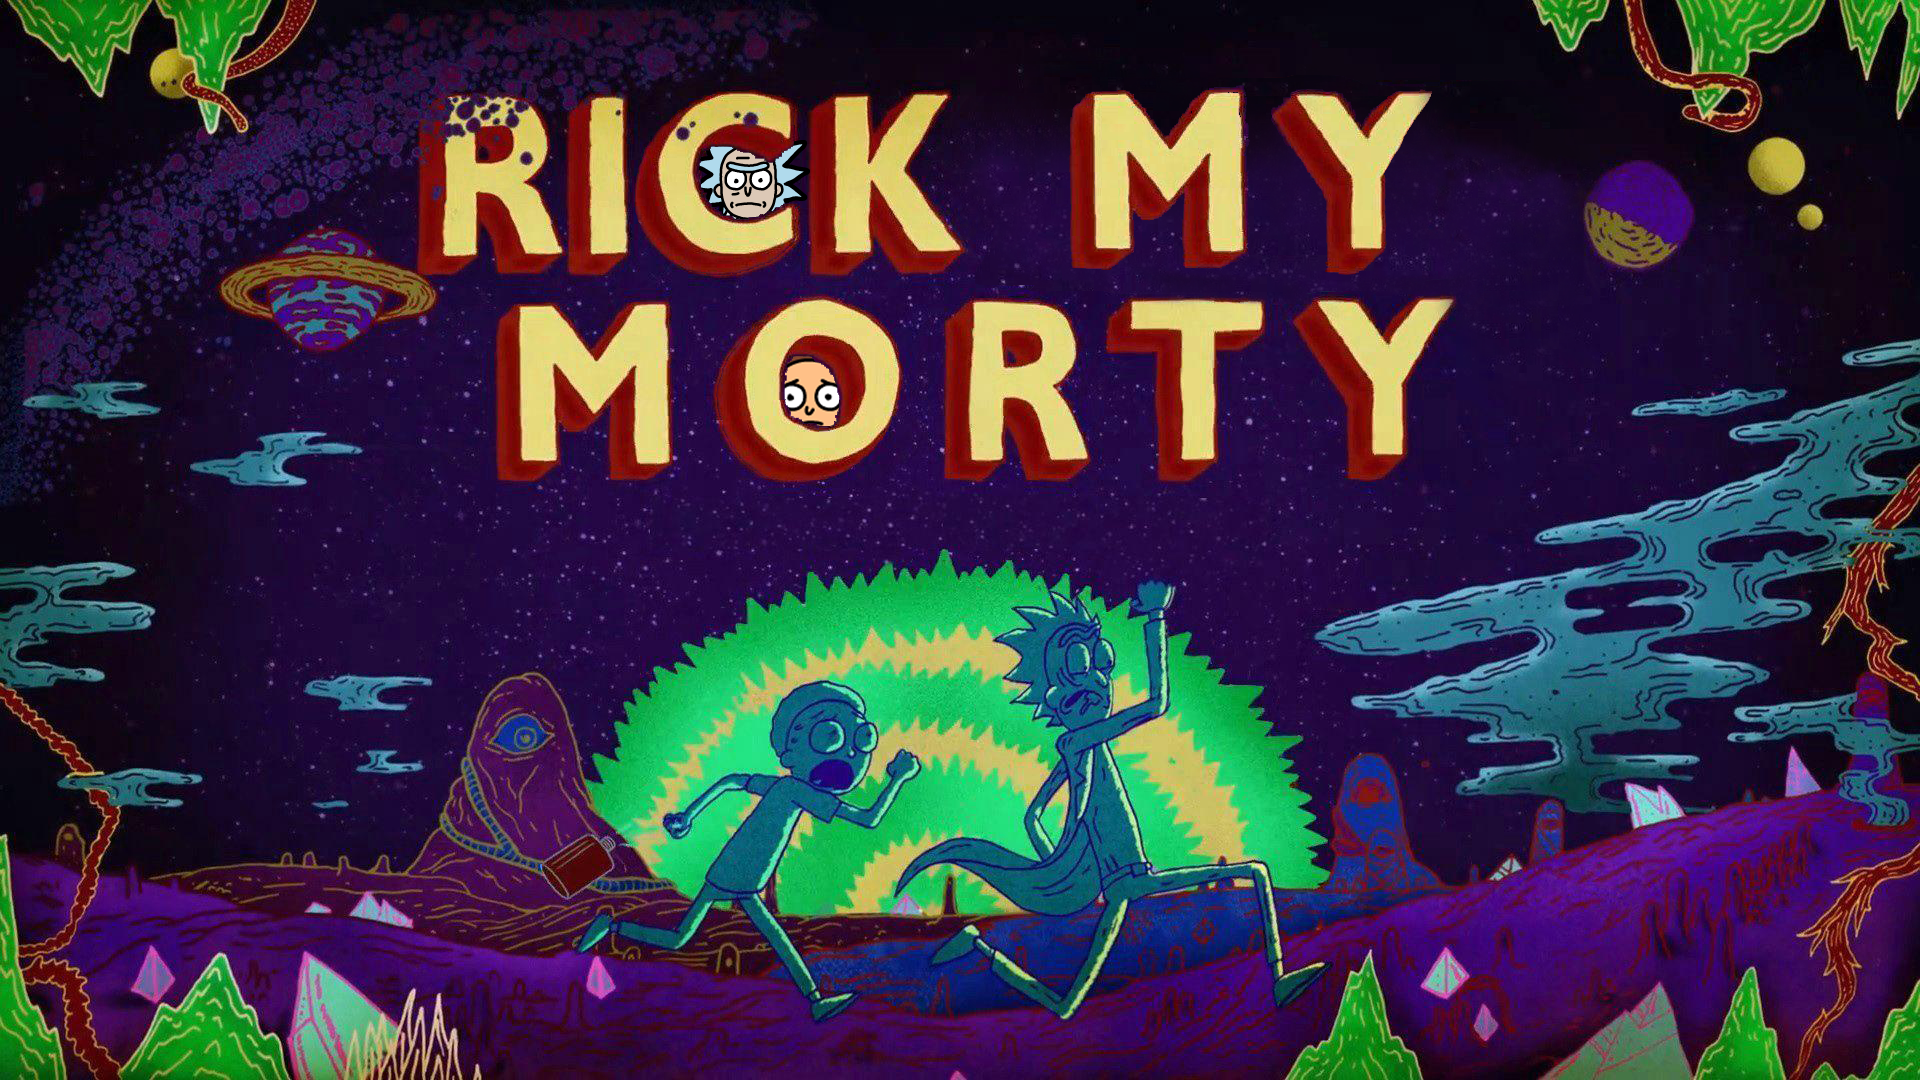
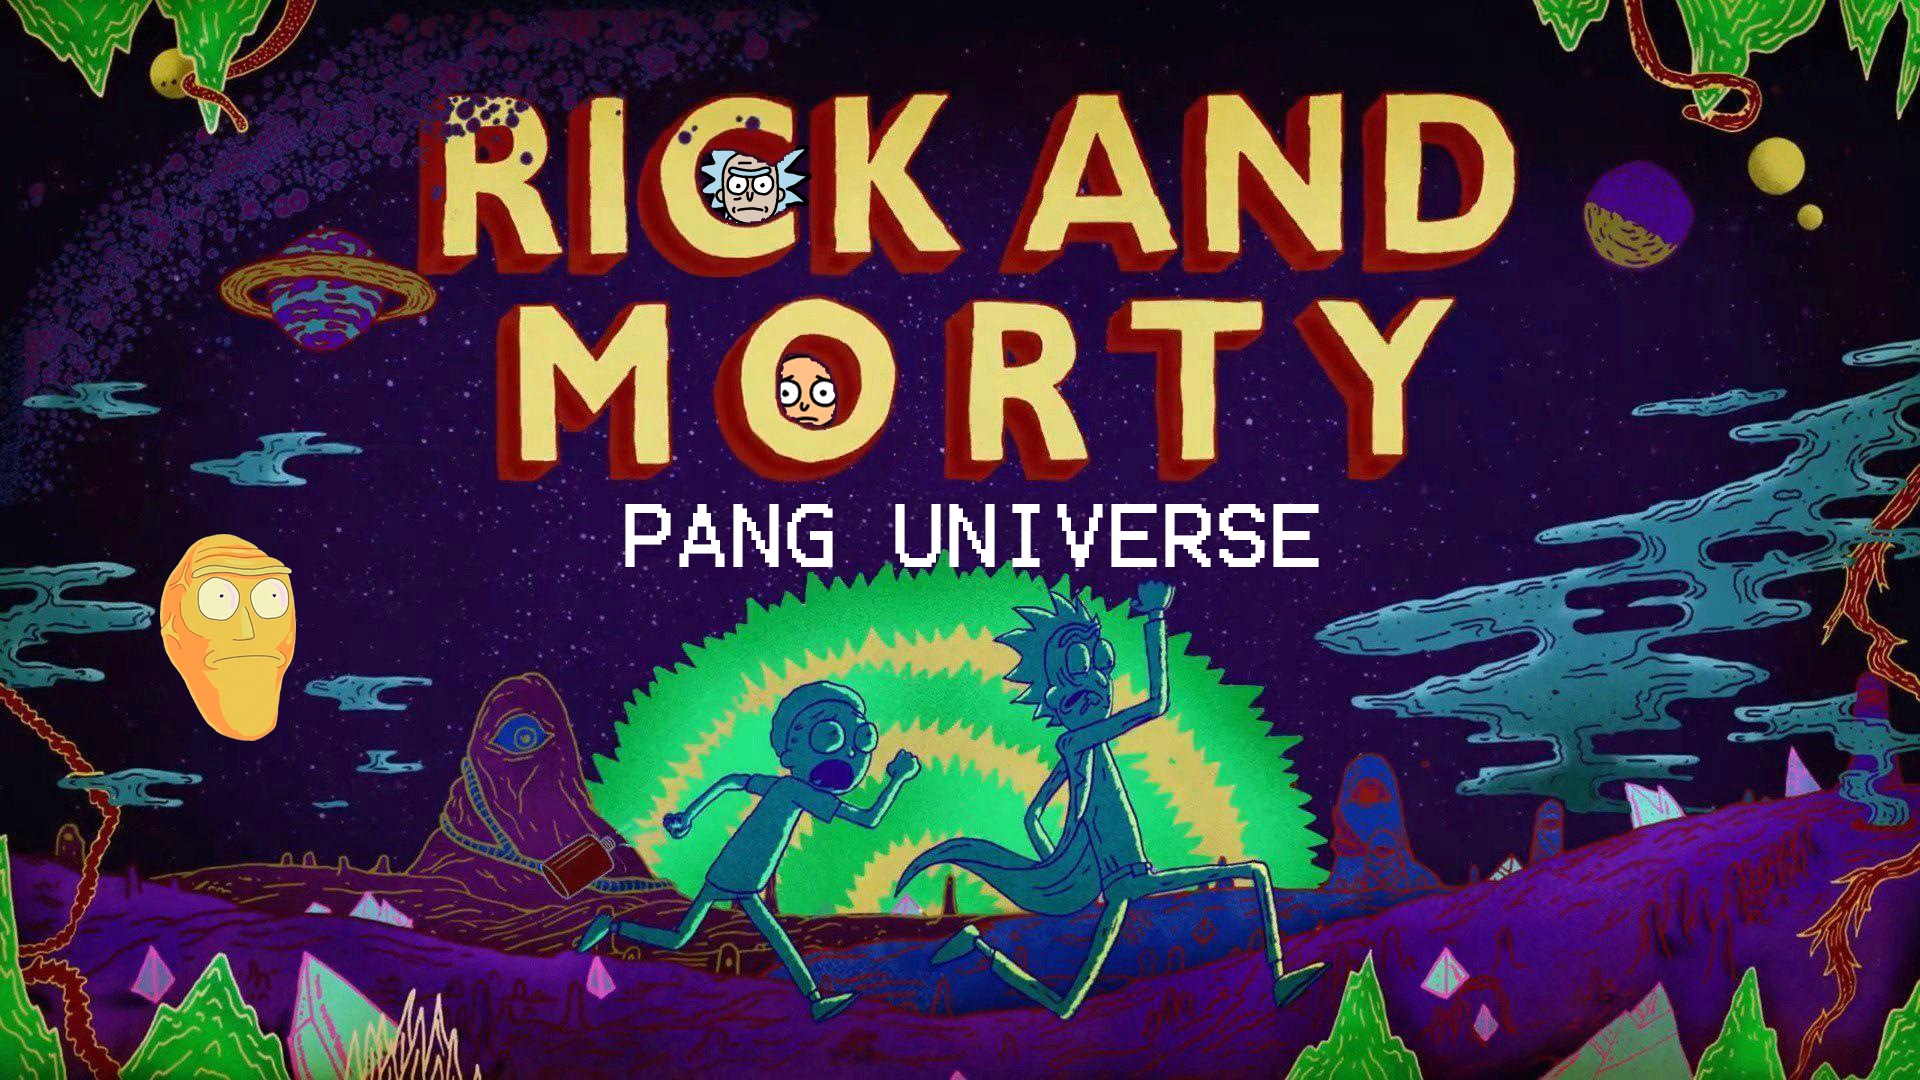
um segundo

diff --git a/index.js b/index.js
@@ -45,7 +45,8 @@ window.onload = function () {
         }
     }
 
-
+    let ballBounceFloor = 500
+    let setaRange = 0
     let noGrav = true
     let bolas = []
     let jogos = []
@@ -62,15 +63,18 @@ window.onload = function () {
     let background3 = new Image()
     background3.src = "images/bg5_noBigHead.jpg"
     let finalBackgroud = new Image()
-    finalBackgroud.src = "images/bg3.jpg"
+    finalBackgroud.src = "images/endImg.png"
     let menuBackground = new Image()
-    menuBackground.src = "images/bg9.jpg"
+    menuBackground.src = "images/INTRO.png"
 
     let mortyHead = new Image()
     mortyHead.src = "images/MORTYHEAD.PNG"
 
     let space = new Image()
     space.src = "images/space.jpg"
+
+    let flame = new Image()
+    flame.src ="images/fire.png"
 
     let mees = new Image()
     mees.src = "images/mees.png"
@@ -317,10 +321,19 @@ window.onload = function () {
             this.velynovabola = 1
         }
         show() {
+            if (level == 3)
+            {
+                ctx.fillStyle = ctx.createPattern(flame, "repeat")
+                ctx.strokeStyle = "red"
+                ctx.lineWidth = "2"
+            }
+            else {
+                ctx.fillStyle = ctx.createPattern(space, "repeat")
+                ctx.strokeStyle = "black"
+                ctx.lineWidth = "2"
 
-            ctx.fillStyle = ctx.createPattern(space, "repeat")
-            ctx.strokeStyle = "green"
-            ctx.lineWidth = "5"
+            }
+
             ctx.save()
             ctx.beginPath()
             ctx.arc(this.x, this.y, this.raio, 0, 2 * Math.PI)
@@ -356,9 +369,9 @@ window.onload = function () {
             this.y += this.vy
 
 
-            if (this.y + this.raio >= 500) {
+            if (this.y + this.raio >= ballBounceFloor) {
                 this.vy *= -1
-                this.y = 500 - this.raio
+                this.y = ballBounceFloor - this.raio
             }
             if (this.x - this.raio <= 0 || this.x + this.raio >= canvas.width) this.vx *= -1
         }
@@ -519,7 +532,7 @@ window.onload = function () {
         let inicioJogo = performance.now()
 
         //Os niveis vão para aqui
-        // level = 3
+        //level = 3
         if (level == 0) menu()
         else if (level == 1) nivel1()
         else if (level == 2) nivel2()
@@ -545,9 +558,9 @@ window.onload = function () {
             console.log('Nivel - ' + level)
 
             let nBolas = 0
-            if (level == 1) nBolas = 1
+            if (level == 1) nBolas = 2
             else if (level == 2) nBolas = 4
-            else if (level == 3) nBolas = 1
+            else if (level == 3) nBolas = 2
 
 
             for (let i = 0; i < nBolas; i++) {
@@ -585,6 +598,7 @@ window.onload = function () {
                 boss.x = 50
                 boss.y = 10
                 boss.vidas = 5
+                if(level == 1) p.y = 0
                 window.requestAnimationFrame(draw)
 
             }
@@ -598,6 +612,8 @@ window.onload = function () {
                     mostrarCenas(true)
                     fimJogo = performance.now() - inicioJogo
                     console.log(score1 + Math.round(fimJogo)) //score final
+                    ecraFinal()
+                    document.getElementById('NomeJogador').focus()
                 }
 
                 if (boss.vidas == 0) {
@@ -611,7 +627,7 @@ window.onload = function () {
 
             let nBolas = 0
             if (level == 1 || level == 0) nBolas = 1
-            else if (level == 2) nBolas = 4
+            else if (level == 2) nBolas = 2
             else if (level == 3) nBolas = 0
 
             for (let i = 0; i < nBolas; i++) {
@@ -642,16 +658,20 @@ window.onload = function () {
         ctx.fillRect(0, 0, canvas.width, canvas.height)
         ctx.drawImage(menuBackground, 0, 0, menuBackground.width, menuBackground.height, 0, 0, canvas.width, 500)
 
+        ctx.fillStyle = "rgba(50, 255, 86, 0.9)"
+        ctx.lineWidth = "4"
+        ctx.strokeStyle = "white"
+        ctx.fillRect(350, 540, 100, 30)
+        ctx.fillRect(550, 540, 100, 30)
+        ctx.strokeRect(350,540, 100, 30)
+        ctx.strokeRect(550, 540, 100, 30)
+
         ctx.fillStyle = 'white'
-        ctx.fillRect(300, 540, 100, 30)
-        ctx.fillRect(500, 540, 100, 30)
+        ctx.font = "Bold 20px Arial";
+        ctx.fillText('1 Player', 360, 561)
 
-        ctx.fillStyle = 'black'
-        ctx.font = "20px Arial";
-        ctx.fillText('1 Player', 310, 560)
-
-        ctx.font = "20px Arial";
-        ctx.fillText('2 Players', 510, 560)
+        ctx.font = "Bold 20px Arial";
+        ctx.fillText('2 Players', 557, 561)
 
         //Clicar nos retangulos
         canvas.addEventListener('click', (evt) => {
@@ -659,11 +679,11 @@ window.onload = function () {
             let my = evt.pageY - canvas.offsetTop
 
             //1Player
-            if (mx >= 300 && mx <= 400 && my >= 540 && my <= 570) {
+            if (mx >= 360 && mx <= 460 && my >= 540 && my <= 570) {
                 console.log('Player = 1')
                 level = 1;
             }
-            if (mx >= 500 && mx <= 600 && my >= 540 && my <= 570) console.log('Player = 2')
+            if (mx >= 560 && mx <= 660 && my >= 540 && my <= 570) console.log('Player = 2')
         })
     }
     let p = new PowerUp()
@@ -699,7 +719,7 @@ window.onload = function () {
 
     let p1 = new PowerUp()
     function nivel2() {
-        ctx.fillStyle = 'green'
+        ctx.fillStyle = 'black'
         ctx.fillRect(0, 0, canvas.width, canvas.height)
         ctx.drawImage(background2, 0, 0, background2.width, background2.height, 0, 0, canvas.width, 500)
 
@@ -716,11 +736,28 @@ window.onload = function () {
         devil.grav()
         devil.update()
         devil.show()
-        for (let bola of bolas) {
+
+        for (let i=0; i<bolas.length; i++)
+        {
+            if (i<=(bolas.length-1)/2)
+            {
+                ballBounceFloor= 250
+                setaRange = 280
+            }
+            else {
+                ballBounceFloor = 500
+            }
+            bolas[i].show()
+            bolas[i].update()
+            bolas[i].colide()
+        }
+
+
+        /*for (let bola of bolas) {
             bola.show()
             bola.update()
             bola.colide()
-        }
+        }*/
 
         if (p1.dead == false) {
             p1.show()
@@ -792,7 +829,8 @@ window.onload = function () {
 
     let p2 = new PowerUp()
     function nivel3() {
-        ctx.fillStyle = 'brown'
+        ballBounceFloor = 500
+        ctx.fillStyle = 'black'
         ctx.fillRect(0, 0, canvas.width, canvas.height)
         ctx.drawImage(background3, 0, 0, background3.width, background3.height, 0, 0, canvas.width, 500)
 
@@ -832,10 +870,9 @@ window.onload = function () {
         canvas.height = 600
         ctx.fillStyle = 'purple'
         ctx.fillRect(0, 0, canvas.width, canvas.height)
-        ctx.drawImage(finalBackgroud, 0, 0, finalBackgroud.width, finalBackgroud.height, 0, 0, canvas.width, 500)
+        ctx.drawImage(finalBackgroud, 0, 0, finalBackgroud.width, finalBackgroud.height, 0, 0, canvas.width, canvas.height)
 
-        ctx.fillStyle = "blue"
-        ctx.fillRect(canvas.width / 2, canvas.height / 2, 100, 100)
+
 
     }
     //Mostrar Vidas
@@ -877,8 +914,34 @@ window.onload = function () {
             this.launchY = devil.y + devil.altura
         }
         max() {
-            if (this.y <= 0) {
-                setas = setas.filter(set => set.id != this.id)
+            if (level == 2)
+            {
+                
+                if(devil.morty.pes <= 250){
+
+                    if (this.y <= 0) {
+                        
+                        setas = setas.filter(set => set.id != this.id)
+                    }
+                    
+                }
+
+                else {
+
+                    if (this.y <= setaRange) {
+                        setas = setas.filter(set => set.id != this.id)
+                    }
+
+                }
+
+
+            }
+            else 
+            {
+                if (this.y <= 0) {
+                    setas = setas.filter(set => set.id != this.id)
+                }
+
             }
         }
         draw() {
@@ -946,13 +1009,13 @@ window.onload = function () {
                 if (confirmarJogs(nomeJog[0].value) == undefined && confirmarJogs(nomeJog[1].value) == undefined) guardar = true
             }
         }
-
+        // CH
         // let elBody = document.getElementById('elBody')
         if (guardar == true) {
             jogadores = jogadores.sort((a, b) => b.pontos - a.pontos)
 
             for (let i = 0; i < nomeJog.length; i++) {
-                let jog = new Jogador(nomeJog[i].value, score1 + Math.round(fimJogo) + devil.vidas, fimJogo)
+                let jog = new Jogador(nomeJog[i].value, score1 + Math.round(fimJogo) + devil.lives, fimJogo)
                 console.log(jog)
                 jogadores.push(jog)
                 let tr = document.createElement('tr')

diff --git a/index.html b/index.html
@@ -5,7 +5,7 @@
     <meta charset="UTF-8">
     <meta name="viewport" content="width=device-width, initial-scale=1.0">
     <meta http-equiv="X-UA-Compatible" content="ie=edge">
-    <title>Rick my Morty</title>
+    <title>Rick and Morty: Pang Universe</title>
     <link rel="stylesheet" href="index.css">
 
     <link rel="stylesheet" href="https://stackpath.bootstrapcdn.com/bootstrap/4.1.3/css/bootstrap.min.css" integrity="sha384-MCw98/SFnGE8fJT3GXwEOngsV7Zt27NXFoaoApmYm81iuXoPkFOJwJ8ERdknLPMO"
@@ -13,40 +13,42 @@
 </head>
 
 <body>
-    <div>
+    <div class="container text-center" style="padding-top: 50px">
         <canvas id="myCanvas">
 
         </canvas>
-    </div>
-    <div id="masterContainer" style="display: none;">
-        <div class="container" style="border-left: 3px solid purple; background-color: rgba(204, 86, 204, 0.4); margin-bottom: 20px;">
 
-            <h1 class="text-center">Insere prai</h1>
-            <div id="containerNome" class="col-md-12 text-center">
-                Nome: <input class="nomeJog" type="text">
-            </div>
-            <div class="col-md-12 text-center">
+        <div id="masterContainer" class="" style="display: none;">
+
+            <h1 class="text-center">Save your performance!</h1>
+            <div id="containerNome" class="col-md-12 text-center" style="border: 3px solid rgb(35, 89, 236); background-color: rgba(53, 163, 236, 0.438); 
+            margin-bottom: 40px; margin-top: 50px; padding: 20px 0">
+                Name: <input id="NomeJogador" class="nomeJog" type="text">
                 <div id="alerta" class="alert alert-danger" role="alert" style="margin-top: 50px;visibility: hidden;">
                     This is a primary alert—check it out!
                 </div>
-                <button id="submitNames" type="button" class="btn btn-success text-center">Até te
-                    guardas te</button>
+                <button id="submitNames" type="button" class="btn btn-success text-center">Submit</button>
+
+            </div><br>
+            <hr>
+            <div id="listaJogadores" class="col-lg-12">
+                <table class="table">
+                    <thead class="thead-dark">
+                        <tr>
+                            <th scope="col">Nome</th>
+                            <th scope="col">Score</th>
+                            <th scope="col">Tempo</th>
+                            <th scope="col">Data</th>
+                        </tr>
+                    </thead>
+                    <tbody id="elBody">
+                    </tbody>
+                </table>
             </div>
         </div>
-        <div id="listaJogadores" class="container">
-            <table class="table">
-                <thead class="thead-dark">
-                    <tr>
-                        <th scope="col">Nome</th>
-                        <th scope="col">Score</th>
-                        <th scope="col">Tempo</th>
-                        <th scope="col">Data</th>
-                    </tr>
-                </thead>
-                <tbody id="elBody">
-                </tbody>
-            </table>
-        </div>
+
+
+
     </div>
     <script src="index.js"></script>
     <script src="https://code.jquery.com/jquery-3.3.1.slim.min.js" integrity="sha384-q8i/X+965DzO0rT7abK41JStQIAqVgRVzpbzo5smXKp4YfRvH+8abtTE1Pi6jizo"
